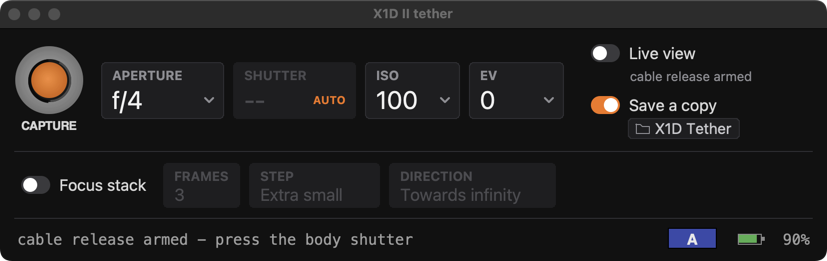
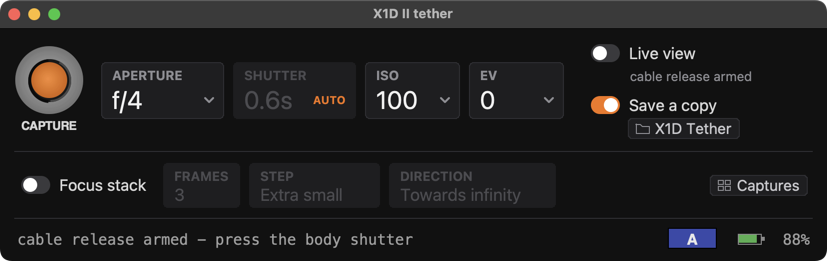
UX fine tuning

diff --git a/capture/viewer.py b/capture/viewer.py
@@ -225,7 +225,6 @@ class App:
         self._capture_enabled = True
         self._release_hovered = False
         self._cache_path = None
-        self._still_win = None
         self._last_pkt_log = 0.0
         self._cfg = os.path.expanduser("~/.x1d_viewer.json")
         self._log_path = self._make_log_path()
@@ -323,6 +322,13 @@ class App:
         self.stack_dir = tk.StringVar(value=DIR_NAMES[0])
         self.om_dir = small_tile("Direction", self.stack_dir, DIR_NAMES, 168)
 
+        # closing the captures window only hides it; this brings it back (G toggles it
+        # from any of the app's windows)
+        self.captures_btn = ui.Chip(stack, "Captures", self._open_captures, glyph="grid",
+                                    max_width=104)
+        self.captures_btn.set_enabled(False)
+        self.captures_btn.pack(side="right", padx=(8, 0))
+
         self._rule(root, 3)
 
         # status row: fixed-width message on the left so changing text cannot resize the
@@ -352,6 +358,8 @@ class App:
 
         root.bind("<space>", lambda e: self.on_capture())
         root.bind("<Return>", lambda e: self.on_capture())
+        for key in ("g", "G"):
+            root.bind(key, lambda e: self.gallery.toggle())
         root.protocol("WM_DELETE_WINDOW", self.on_close)
         # a killed client leaves the camera mid-session, and the next connection fails with
         # an endpoint overflow until the body is power cycled. Close the session on the
@@ -1410,11 +1418,11 @@ class App:
                 pass
 
     def _show_still(self, raw_path):
-        """Show a captured frame: the JPEG embedded in the 3FR, resized to PNG for Tk.
+        """Put a captured frame into the four-up gallery: the JPEG embedded in the 3FR.
 
-        With live view off it goes into the four-up gallery where the preview would be;
-        with live view on, into a still window of its own, leaving the H.264 player alone
-        so the preview needs no restart. Runs on a worker (decoding takes a moment).
+        The same route with live view on or off; with it on, the gallery is a window of
+        its own beside the H.264 player, so the preview needs no restart. Runs on a
+        worker (decoding takes a moment).
         """
         try:
             with open(raw_path, "rb") as fh:
@@ -1428,53 +1436,22 @@ class App:
             self._log("still: no embedded JPEG in %s" % raw_path)
             return
         stem = os.path.splitext(os.path.basename(raw_path))[0]
-        if not self._live_pref:
-            try:
-                decoded = gallery.decode(data[i:j + 2])
-            except Exception as e:
-                self._log("still: cannot decode %s (%s)" % (stem, e))
-                return
-            self._log("still: %d bytes of JPEG from %s -> gallery" % (j - i + 2, stem))
-            self.root.after(0, lambda: self.gallery.add(decoded, stem))
-            return
-        cache = self._cache_dir()
-        jpg = os.path.join(cache, "still.jpg")
-        png = os.path.join(cache, "still.png")
         try:
-            with open(jpg, "wb") as fh:
-                fh.write(data[i:j + 2])
-            subprocess.run(["sips", "-s", "format", "png", "-Z", "1800", jpg,
-                            "--out", png],
-                           check=False, capture_output=True, timeout=20)
-            os.remove(jpg)               # needed only for the conversion
+            decoded = gallery.decode(data[i:j + 2])
         except Exception as e:
-            self._log("still: conversion failed %s" % e)
+            self._log("still: cannot decode %s (%s)" % (stem, e))
             return
-        self._log("still: %d bytes of JPEG -> %s" % (j - i + 2, png))
-        self.root.after(0, lambda: self._still_window(png))
+        self._log("still: %d bytes of JPEG from %s -> gallery" % (j - i + 2, stem))
+        self.root.after(0, lambda: self._add_capture(decoded, stem))
 
-    def _still_window(self, png):
-        try:
-            img = tk.PhotoImage(file=png)
-        except Exception as e:
-            self._log("still: Tk cannot load %s (%s)" % (png, e))
-            return
-        win = self._still_win
-        try:
-            if win is not None and win.winfo_exists():
-                win.children["img"].configure(image=img)
-                win.image = img
-                win.lift()
-                return
-        except Exception:
-            pass
-        win = tk.Toplevel(self.root)
-        win.title("X1D II capture")
-        win.configure(bg="#000")
-        lab = tk.Label(win, image=img, bg="#000", name="img")
-        lab.pack()
-        win.image = img                     # keep a reference or Tk drops the pixels
-        self._still_win = win
+    def _add_capture(self, decoded, stem):
+        """UI thread: a new capture into the gallery, and the Captures button on."""
+        self.gallery.add(decoded, stem)
+        self.captures_btn.set_enabled(True)
+
+    def _open_captures(self):
+        """The Captures button or G: reopen the gallery the user closed."""
+        self.gallery.open()
 
     def _poll(self):
         """Keep the camera's session warm the way Phocus does.

diff --git a/capture/gallery.py b/capture/gallery.py
@@ -1,13 +1,14 @@
-"""The last four captures, for shooting with live view off.
+"""The last four captures, whether shot with live view on or off.
 
-A dark window where the live preview would otherwise sit, as large as fits below the
-controls and freely resizable. It shows the four most recent captures in a 2x2 grid,
-newest top-left. Clicking one fills the window with it; clicking a spot there zooms to
-100% around it, to judge focus, and a click (without dragging) goes back to fitting the
-window. While zoomed, drag or two-finger scroll to look around; a small overview in the
-corner shows where. Esc goes back to the grid, 1-4 open a capture, and space or return
-fire the shutter as they do in the controls window. With one capture shown, the scopes
-window (scopes.py) measures exactly what is visible; S shows or hides it.
+A dark window, by default where the live preview sits and as large as fits below the
+controls; it can be moved and resized and remembers where. It shows the four most
+recent captures in a 2x2 grid, newest top-left. Clicking one fills the window with it;
+clicking a spot there zooms to 100% around it, to judge focus, and a click (without
+dragging) goes back to fitting the window. While zoomed, drag or two-finger scroll to look
+around; a small overview in the corner shows where. Esc goes back to the grid, 1-4 open a
+capture, and space or return fire the shutter as they do in the controls window. With one
+capture shown, the scopes window (scopes.py) measures exactly what is visible; S shows or
+hides it.
 
 Each capture's embedded JPEG (4136 x 3100, half the sensor in each direction) is decoded
 once (decode(), on a worker) and kept in memory at full size, with a smaller copy for the
@@ -57,6 +58,9 @@ class Gallery:
         self.geometry = geometry
         self.on_geometry = on_geometry
         self.scopes = scopes
+        if scopes is not None:
+            for key in ("g", "G"):            # G works from the scopes window too
+                scopes.keys[key] = self.toggle
         self._geom_job = None
         self.log = log or (lambda _msg: None)
         left, top, room_w, room_h = (int(v) for v in place)
@@ -94,6 +98,33 @@ class Gallery:
         self._ensure_window()
         self.redraw()
 
+    def visible(self):
+        return (self.win is not None and self.win.winfo_exists()
+                and self.win.state() != "withdrawn")
+
+    def close(self):
+        """Hide the window (the captures are kept), and the scopes with it."""
+        if self.win is not None and self.win.winfo_exists():
+            self.win.withdraw()
+        if self.scopes is not None:
+            self.scopes.hide()
+
+    def toggle(self):
+        """G, from any of the app's windows: close the gallery, or bring it back."""
+        if self.visible():
+            self.close()
+        else:
+            self.open()
+
+    def open(self):
+        """Bring the window back after the user closed it; False when there is nothing
+        to show yet."""
+        if not self.items:
+            return False
+        self._ensure_window()
+        self.redraw()
+        return True
+
     def _photo(self, item, box):
         """A PhotoImage of `item` fitted to `box`, made once per size."""
         key = (int(box[0]), int(box[1]))
@@ -120,7 +151,7 @@ class Gallery:
         win.minsize(320, 240)
         win.geometry(self.geometry or
                      "%dx%d+%d+%d" % (self.w, self.h, self.left, self.top))
-        win.protocol("WM_DELETE_WINDOW", win.withdraw)     # keep the captures
+        win.protocol("WM_DELETE_WINDOW", self.close)       # keep the captures
         c = tk.Canvas(win, width=self.w, height=self.h, bg="#000",
                       highlightthickness=0, bd=0)
         c.pack(fill="both", expand=True)
@@ -138,6 +169,8 @@ class Gallery:
         if self.scopes is not None:
             win.bind("s", lambda e: self.scopes.toggle())
             win.bind("z", lambda e: self.scopes.toggle_vec_zoom())
+        for key in ("g", "G"):
+            win.bind(key, lambda e: self.toggle())
         for n in range(1, SLOTS + 1):
             win.bind(str(n), lambda e, i=n - 1: self.show_single(i))
         if self.on_capture:

diff --git a/capture/widgets.py b/capture/widgets.py
@@ -194,12 +194,14 @@ class Switch(_Drawn):
 
 
 class Chip(_Drawn):
-    """A quiet button naming a folder: a folder glyph, the name, brighter on hover."""
+    """A quiet button: a small glyph ("folder" or "grid") and a name, brighter on hover,
+    dimmed when disabled."""
 
-    def __init__(self, parent, text, command, bg=BG, size=11, max_width=150):
+    def __init__(self, parent, text, command, bg=BG, size=11, max_width=150, glyph="folder"):
         root = parent.winfo_toplevel()
         self.f_text = font(root, size)
         self.command = command
+        self.glyph = glyph
         self.max_width = max_width
         super().__init__(parent, max_width, 22, bg=bg)
         self.set_text(text)
@@ -226,9 +228,12 @@ class Chip(_Drawn):
         tw = self.f_text.measure(label)
         rounded_rect(self, 1, 1, tw + 35, 21, 8, fill=TILE_HOVER if hot else TILE,
                      outline=TILE_EDGE)
-        ink = TEXT if hot else MUTED
-        # folder: a tab and a body
-        self.create_polygon(9, 7, 13, 7, 15, 9, 22, 9, 22, 16, 9, 16, fill="",
-                            outline=ink, width=1.2, joinstyle="round")
+        ink = TEXT if hot else MUTED if self._enabled else DIM
+        if self.glyph == "grid":                # four small frames, as in the gallery
+            for gx, gy in ((9, 6), (16, 6), (9, 12), (16, 12)):
+                self.create_rectangle(gx, gy, gx + 5, gy + 4, outline=ink, width=1.1)
+        else:                                   # folder: a tab and a body
+            self.create_polygon(9, 7, 13, 7, 15, 9, 22, 9, 22, 16, 9, 16, fill="",
+                                outline=ink, width=1.2, joinstyle="round")
         self.create_text(28, 11, text=label, anchor="w", font=self.f_text,
-                         fill=TEXT if hot else "#c8c8cc")
+                         fill=TEXT if hot else "#c8c8cc" if self._enabled else DIM)

diff --git a/capture/scopes.py b/capture/scopes.py
@@ -130,6 +130,7 @@ class Scopes:
         self._job = None
         self._geom_job = None
         self._photos = []
+        self.keys = {}                # extra key -> callback, bound on the window
         self.f_head = ui.font(root, 10, "bold")
         self.f_small = ui.font(root, 9)
 
@@ -151,6 +152,8 @@ class Scopes:
         c = tk.Canvas(win, width=W, height=H, bg="#000", highlightthickness=0, bd=0)
         c.pack()
         win.bind("z", lambda e: self.toggle_vec_zoom())
+        for key, fn in self.keys.items():
+            win.bind(key, lambda e, fn=fn: fn())
         c.tag_bind("vzoom", "<Button-1>", lambda e: self.toggle_vec_zoom())
         c.tag_bind("vzoom", "<Enter>", lambda e: c.configure(cursor="hand2"))
         c.tag_bind("vzoom", "<Leave>", lambda e: c.configure(cursor=""))

diff --git a/README.md b/README.md
@@ -30,8 +30,10 @@ pick, as well as being written to the card.
 from extra small to extra large, towards infinity, towards near or both ways. The frames go to
 the card only. The camera can't hand bracket frames to a computer; Phocus can't either.
 
-**Captures gallery.** With live view off, the last four shots appear in a 2 × 2 grid, newest
-first.
+**Captures gallery.** Every shot, with live view on or off, lands in a window that holds
+the last four in a 2 × 2 grid, newest first. Close it any time; the **Captures** button in
+the controls window brings it back, and `G` closes or reopens it from any of the app's
+windows.
 
 ![The last four captures](docs/images/gallery_grid.png)
 
@@ -79,6 +81,7 @@ restarted.
 | key | where | does |
 |---|---|---|
 | `Space` / `Return` | controls, gallery | capture (runs the stack when Focus stack is on) |
+| `G` | any of the app's windows | close the captures window, or bring it back |
 | `1`–`4` | gallery | show that capture on its own |
 | `Esc` | gallery | back to all four |
 | click / drag / scroll | gallery | zoom to 100%, look around, fit again |
